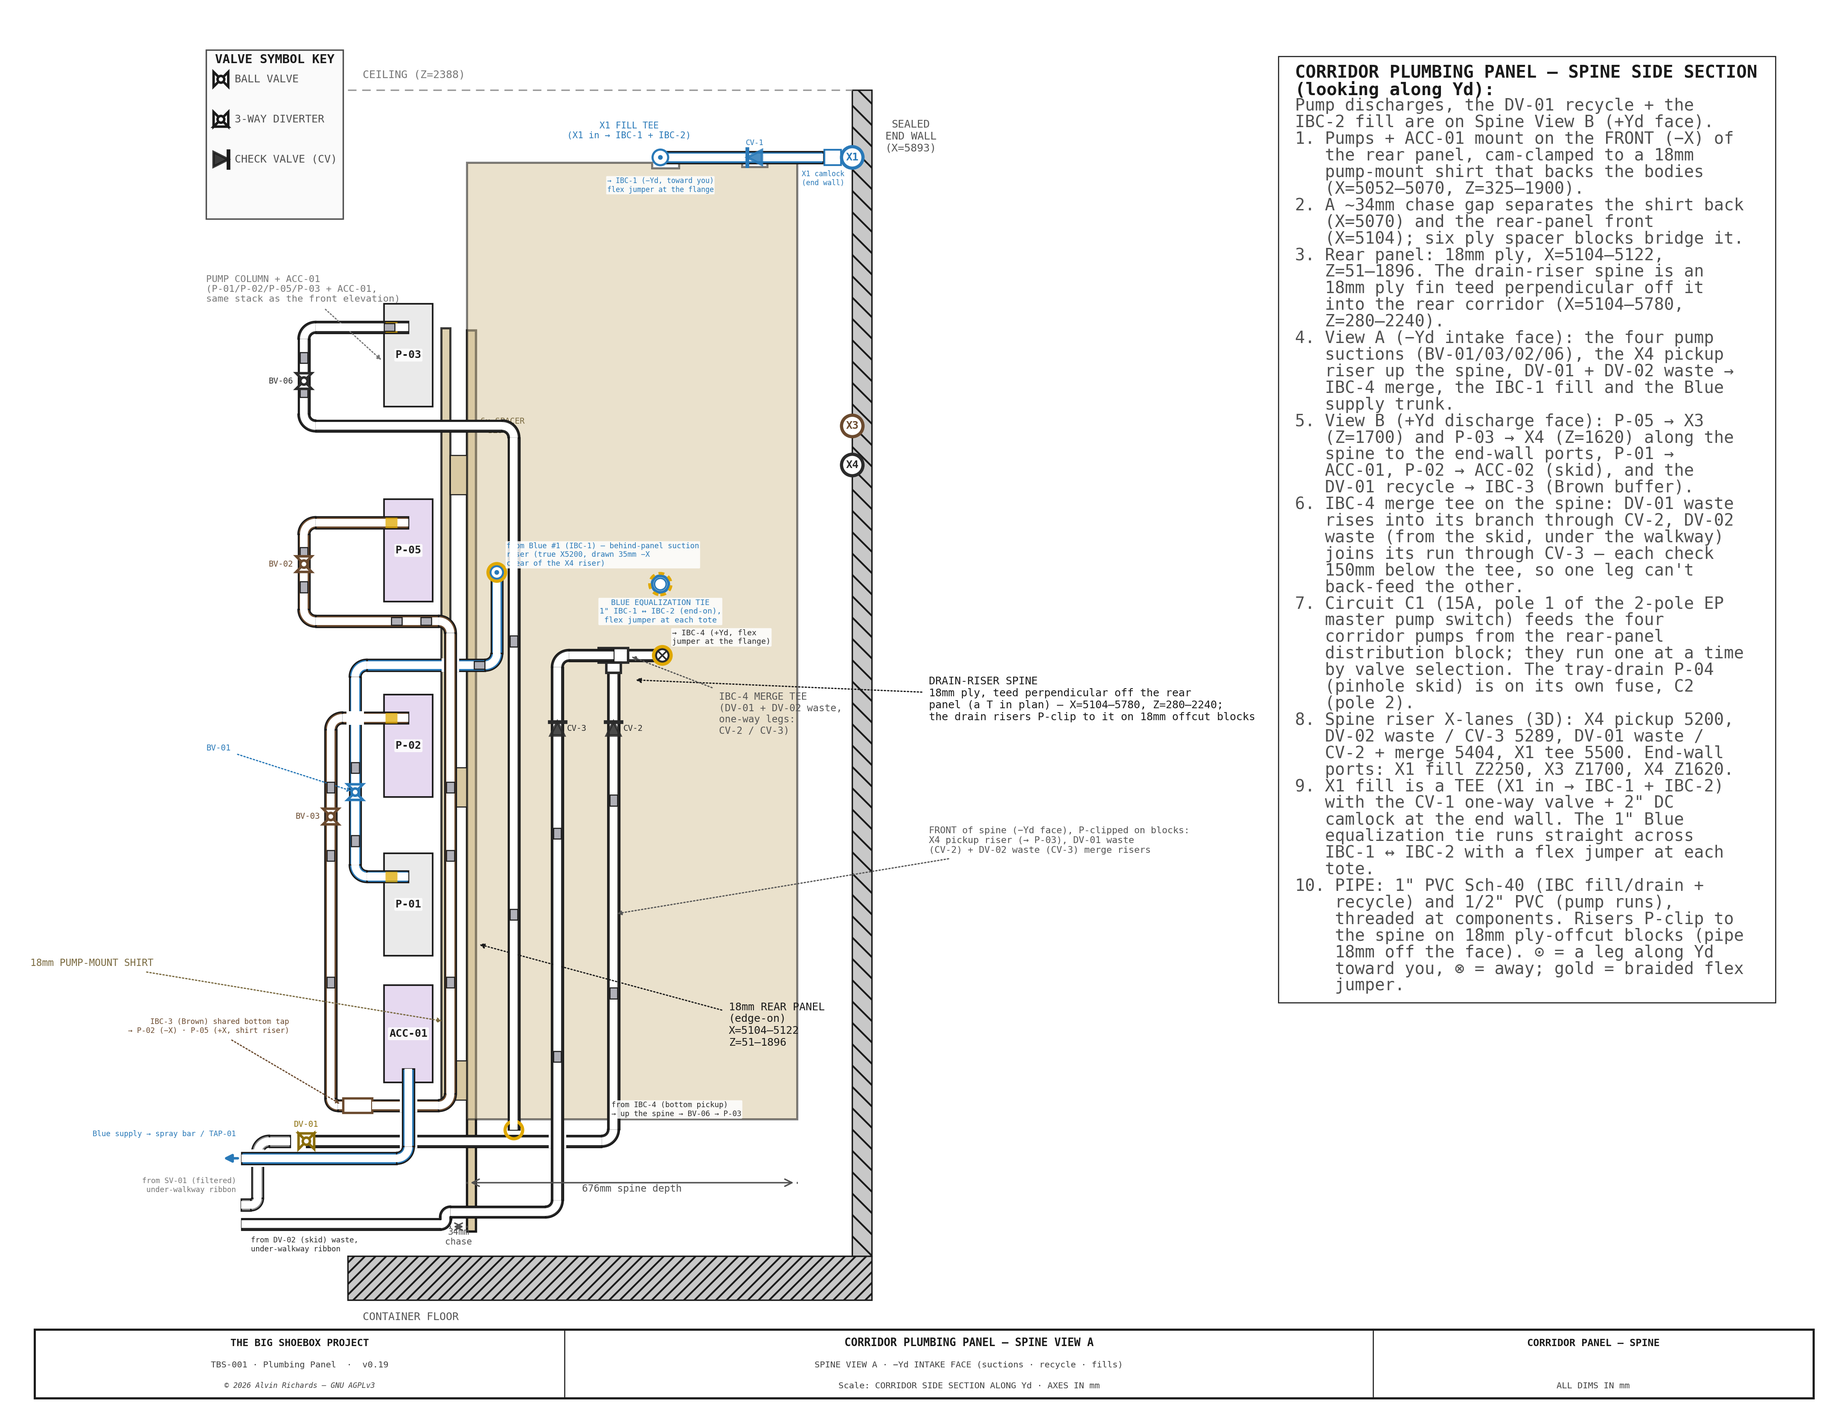
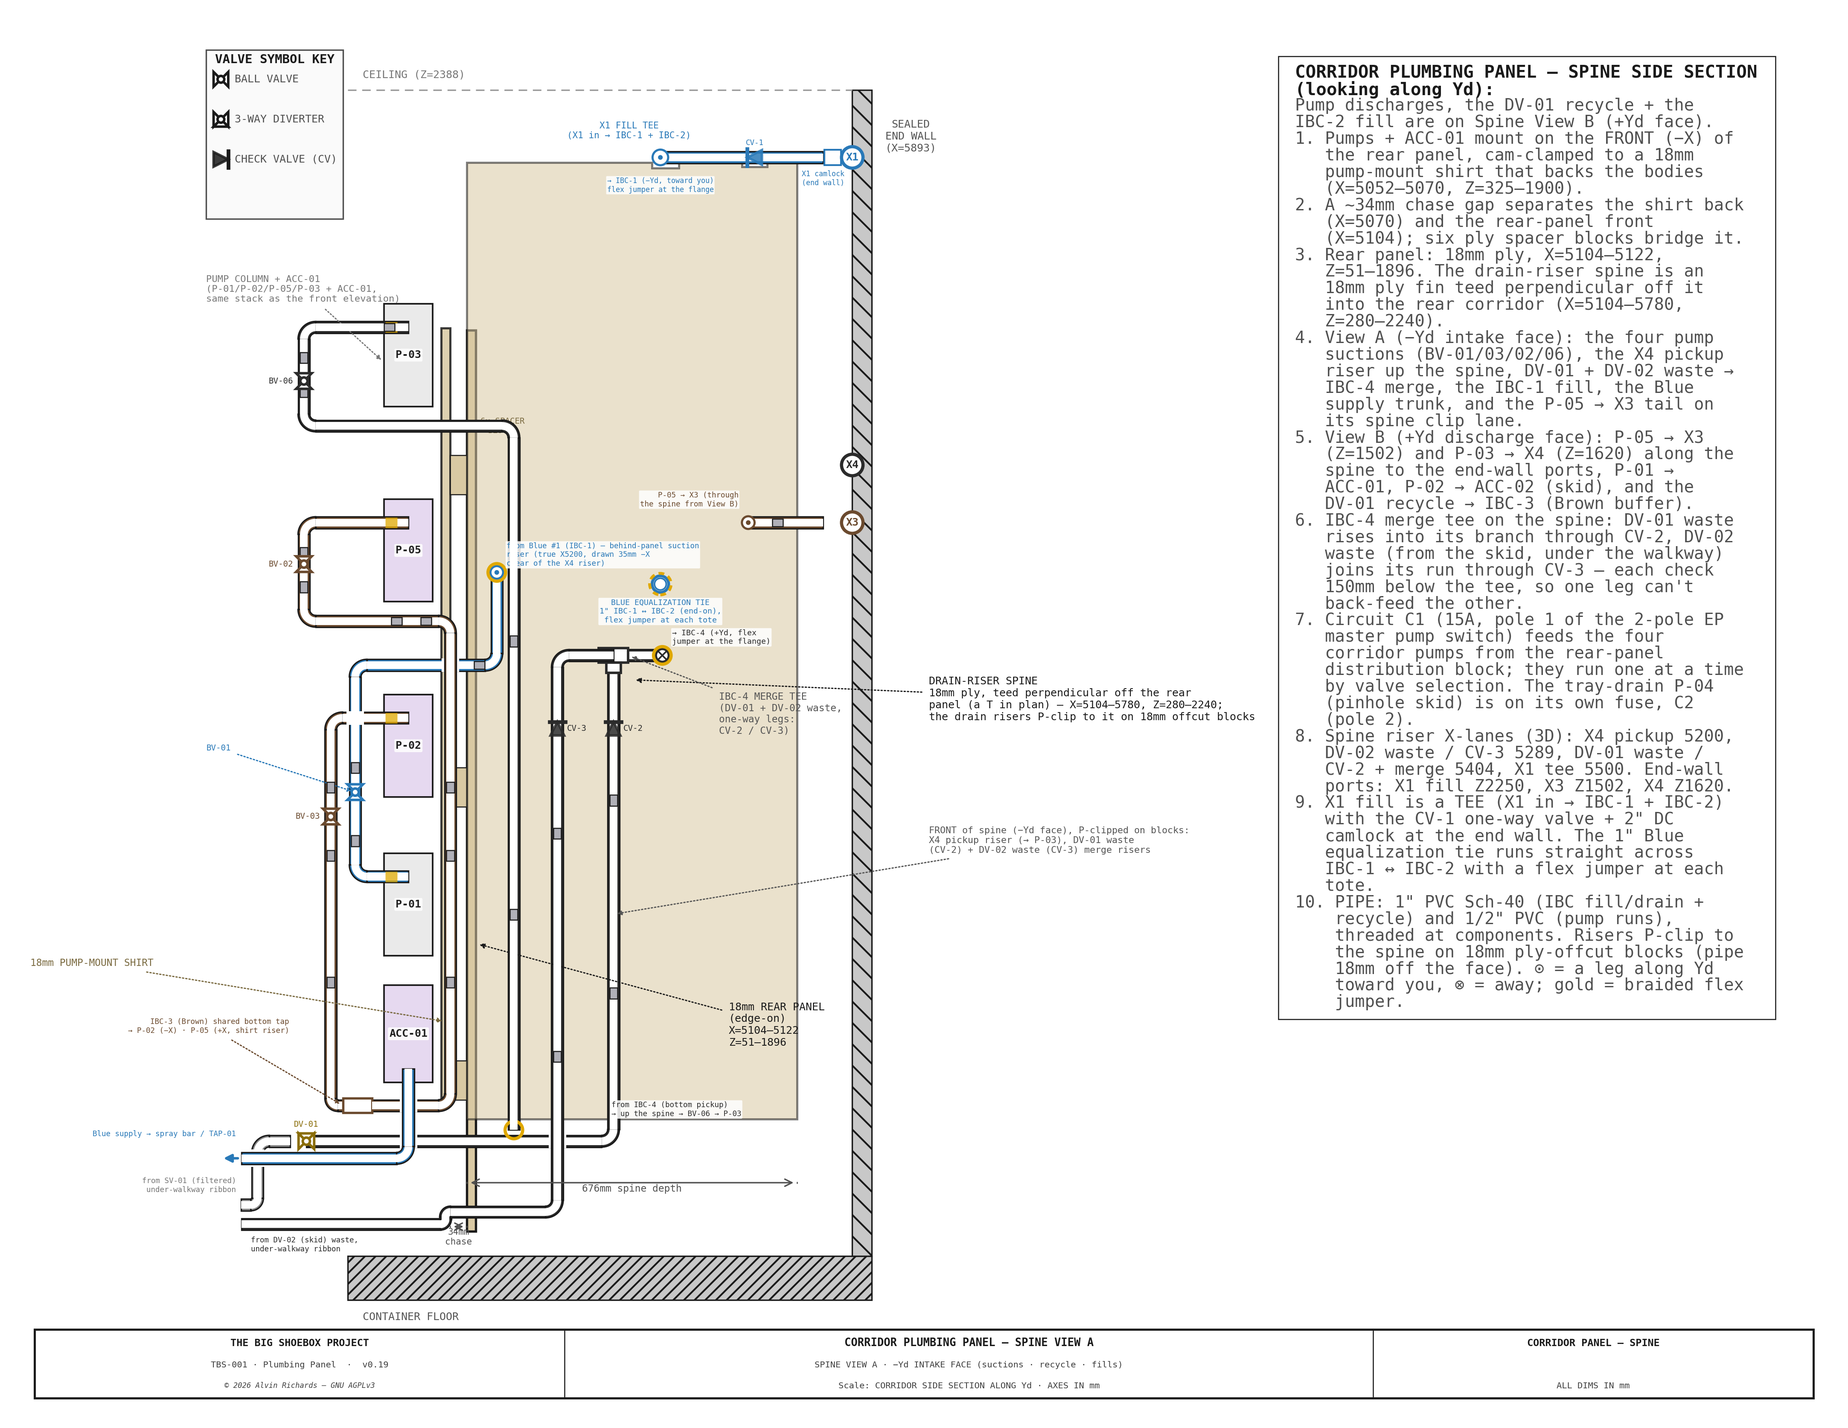
X3 relocated onto the spine near-face clip lane (Yd1177.5/Z1502) so P-05 → X3 is clamped; spine views redrawn

Changed region(s): [[0.7169, 0.2486, 0.9351, 0.7147], [0.3429, 0.3418, 0.4676, 0.3729], [0.4364, 0.2797, 0.4676, 0.3107]]

diff --git a/src/models/generate_corridor_water_panel.py b/src/models/generate_corridor_water_panel.py
@@ -350,6 +350,7 @@ SPINE_Z0    = 280    # drain-riser spine bottom Z (clears the low waste pickup z
 X1_TEE_X, X1_TEE_Z = 5500, 2250                     # X1 fill tee — ON the spine top, centered in its thickness (X1_TEE_Y below)
 SPINE_Z1    = X1_TEE_Z - ov.PUMP_PIPE_OD / 2       # 2239.5 — drain-riser spine top: the X1 fill run + tee REST on its top edge
 SPINE_X_END = 5780   # drain-riser spine far X — extended ~220mm toward the sealed end wall (X5893) so the two end-wall port runs (P-05→X3, P-03→X4) + their X5763 drops get a ply clip surface; still clears the wall
+X3_CROSS_X = SPINE_X_END - 100   # P-05→X3 crosses the spine here (100mm in from its X-edge), then runs the near-face clip lane to X3
 
 
 
@@ -412,6 +413,8 @@ def rear_panel():
         for frac in (0.30, 0.70):
             cz = max(300, min(int(zb + (zt - zb) * frac), int(SPINE_Z1 - 20)))
             p.append(clip_on_block("Spine riser P-clip", rx, cz, SPINE_FACE_NEAR, SPINE_RISER_YD, True))
+    p.append(clip_on_block("Spine near-side P-clip", (X3_CROSS_X + SPINE_X_END) / 2 + 10,
+                           _piz("P-05"), SPINE_FACE_NEAR, SPINE_RISER_YD, False))
     # FAR (+Yd) side of the spine — the grey/brown X-port lines run along it toward the end wall:
     # P-05→X3 (brown, Z1502) and P-03→X4 (waste, Z1902), both on the COL_R lane. Clamps to the +Yd face.
     spine_far_face = SPINE_FACE_NEAR + EQT
@@ -832,7 +835,7 @@ REAR_HOLES = [(DV01_WASTE_YD, 235, RPH),      # DV-01 -> IBC-4 merge
               (CTR_Y, 1430, CBH)]    # Cct-C branch -> P-05
 SPINE_HOLES = [(5500, 1376, 16 + 3),                 # Blue equalization (IBC-1 <-> IBC-2, 1" r16)  (X, Z) — cut along Y
                (ov.IBC_COL_X + 830, MERGE4[2], RPH),  # IBC-4 (Waste) tote entry (xe4) off the merge tee
-               (SPINE_X_END - 100, _piz("P-05"), RPH)]   # P-05 → X3 brown crossing — 100mm in from the extended edge
+               (X3_CROSS_X, _piz("P-05"), RPH)]   # P-05 → X3 brown crossing
 
 
 def support_boards(sides=("far", "near", "near-upper")):
@@ -1194,16 +1197,15 @@ def drains_ports(sump_on_skid=False):
          draw.C_IBC_BROWN)
     port_jumper(p, "P-05 suction jumper", [p5i, (PXC, BV02_YD, z05), (rx, BV02_YD, z05), (rx, BV02_YD, zloop)])
     p.append(ball_valve("BV-02 (P-05 suction)", rx, BV02_YD, z05 - 85, "z", hdir="+y", rot_deg=45))   # whole valve rotated 45° so the handle swings into the corridor on the −X+Yd diagonal, matching BV-01/BV-03/BV-06
-    p.append(draw.ruby_cylinder("X3 Brown drain port (end wall)", ew - 60, COL_L, 1700, 22, 60, color=draw.C_STEEL, axis="x"))
+    p.append(draw.ruby_cylinder("X3 Brown drain port (end wall)", ew - 60, SPINE_RISER_YD, p5o[2], 22, 60, color=draw.C_STEEL, axis="x"))
     # P-05 OUT → +Yd stub → step onto a clear back lane (between the spine +Yd face 1224 and the far
     # upright 1266; +Yd of the pump body 1231) — the −Yd step is done in the OPEN −X of the shirt, NOT in
     # the chase — then STRAIGHT +X through the shirt + panel (round holes) and behind the panel all the way
-    # to the end wall (extending the straight run), then −Yd onto the X3 port lane past the spine, and down.
+    # toward the end wall, then −Yd through the spine onto its near-face clip lane and +X to X3.
     x3lane = COL_R
-    x3cross = SPINE_X_END - 100   # 5680 — cross the spine 100mm IN from its new far edge (X5780), not at the weak X-edge
     _p05 = [p5o, (PXC, PORT_TURN_YD_OUT, p5o[2]), (5030, PORT_TURN_YD_OUT, p5o[2]), (5030, x3lane, p5o[2]),
-            (x3cross, x3lane, p5o[2]), (x3cross, COL_L, p5o[2]),     # +X along the lane to x3cross, then −Yd ACROSS the spine (100mm in)
-            (x3cross, COL_L, 1700), (ew - 60, COL_L, 1700)]          # drop, then +X to the X3 end-wall port
+            (X3_CROSS_X, x3lane, p5o[2]), (X3_CROSS_X, SPINE_RISER_YD, p5o[2]),
+            (ew - 60, SPINE_RISER_YD, p5o[2])]
     pipe("P-05 -> X3 end-wall port", _p05, draw.C_IBC_BROWN)   # OUT turns one elbow out of the port
     port_jumper(p, "P-05 discharge jumper", _p05)
 

diff --git a/src/generators/generate_panel_layout.py b/src/generators/generate_panel_layout.py
@@ -1353,6 +1353,11 @@ def spine_view(side):
         # X4 waste pickup: IBC-4 bottom → up the spine → −X wrap → up past BV-06 → P-03 IN
         run3d("X4 Waste (P-03) pickup", C_WASTEB, zorder=14)
         note(cwp.SPINE_X_END - 380, 300, "from IBC-4 (bottom pickup)\n→ up the spine → BV-06 → P-03", C_WASTEB)
+        # P-05 → X3 tail: through the spine (end-on, toward you) → +X on the −Yd clip lane to X3
+        x3z = W["runs"]["P-05 -> X3 end-wall port"][-1][2]
+        run3d("P-05 -> X3 end-wall port", C_BROWNB, zorder=12, xmin=cwp.X3_CROSS_X)
+        endon(cwp.X3_CROSS_X, x3z, C_BROWNB, toward=True)
+        note(cwp.X3_CROSS_X - 20, x3z + 30, "P-05 → X3 (through\nthe spine from View B)", C_BROWNB, ha="right", va="bottom")
         # ACC-01 OUT → Blue supply trunk → −X to the ribbon slot → spray bar / TAP-01
         run3d("Blue supply trunk -> spray bar / TAP-01 (off-panel)", C_BLUEB, zorder=16, xmin=GAPX + 1)
         _flowhead(GAPX + 1, 200, "left", C_BLUEB)
@@ -1389,7 +1394,7 @@ def spine_view(side):
         endon(rx, rz, C_BROWNB, toward=False)
         leader(axb, rx, rz, 5330, 960, "DV-01 RECYCLE → IBC-3 (Brown buffer)\n−Yd into the tote, flex jumper at the flange",
                color=C_BROWNB, fs=4.6, ha=_ha("left"), va="center", arrow_style="-|>", font=FB)
-        leader(axb, 5640, 1700, 6120, 1820,
+        leader(axb, 5600, W["runs"]["P-05 -> X3 end-wall port"][-1][2], 6120, 1820,
                "+Yd DISCHARGE face (near):\nX3 / X4 pump discharges → end-wall ports",
                color=C_BROWNB, fs=5.2, ha=_ha("left"), va="center", arrow_style="-|>", font=FB)
 
@@ -1423,7 +1428,7 @@ def spine_view(side):
         f"1. Pumps + ACC-01 mount on the FRONT (−X) of the rear panel, cam-clamped to a {SHIRTX1 - SHIRTX0:.0f}mm pump-mount shirt that backs the bodies (X={SHIRTX0:.0f}–{SHIRTX1:.0f}, Z={SHIRT_ZB:.0f}–{SHIRT_ZT:.0f}).",
         f"2. A ~{PANX - SHIRTX1:.0f}mm chase gap separates the shirt back (X={SHIRTX1:.0f}) and the rear-panel front (X={PANX:.0f}); six ply spacer blocks bridge it.",
         f"3. Rear panel: 18mm ply, X={PANX:.0f}–{PANX1:.0f}, Z={PAN_ZB:.0f}–{PAN_ZT:.0f}. The drain-riser spine is an 18mm ply fin teed perpendicular off it into the rear corridor (X={PANX:.0f}–{SPX1:.0f}, Z={SPINE_ZB:.0f}–{SPINE_ZT:.0f}).",
-        "4. View A (−Yd intake face): the four pump suctions (BV-01/03/02/06), the X4 pickup riser up the spine, DV-01 + DV-02 waste → IBC-4 merge, the IBC-1 fill and the Blue supply trunk.",
+        "4. View A (−Yd intake face): the four pump suctions (BV-01/03/02/06), the X4 pickup riser up the spine, DV-01 + DV-02 waste → IBC-4 merge, the IBC-1 fill, the Blue supply trunk, and the P-05 → X3 tail on its spine clip lane.",
         f"5. View B (+Yd discharge face): P-05 → X3 (Z={X3_PORT_Z:.0f}) and P-03 → X4 (Z={X4_PORT_Z:.0f}) along the spine to the end-wall ports, P-01 → ACC-01, P-02 → ACC-02 (skid), and the DV-01 recycle → IBC-3 (Brown buffer).",
         f"6. IBC-4 merge tee on the spine: DV-01 waste rises into its branch through CV-2, DV-02 waste (from the skid, under the walkway) joins its run through CV-3 — each check {cv_dz:.0f}mm below the tee, so one leg can't back-feed the other.",
         "7. Circuit C1 (15A, pole 1 of the 2-pole EP master pump switch) feeds the four corridor pumps from the rear-panel distribution block; they run one at a time by valve selection. The tray-drain P-04 (pinhole skid) is on its own fuse, C2 (pole 2).",

diff --git a/RELEASE.md b/RELEASE.md
@@ -26,7 +26,7 @@ is no separate publish step to run afterward.
 
 ## [Unreleased]
 
-- **2D water sheets brought back to the 3D.** ibc-stacking Sheet 5 drew the retired routing (filter return into IBC-2); it now shows DV-01 recycle → IBC-3 on a pH pass and the waste merge into IBC-4 through CV-2/CV-3, with the legend and notes rewritten. Sheet 4 no longer lists P-04 as a corridor pump. water-system Sheet 1 labels the 1" equalization tie and shows its flex jumpers. On the pinhole-wall elevation, P-04's ports are drawn to the datasheet reach and its suction enters at port height. The SV-02 marker now sits on its pipe: `PWP_SV02_Z` was the valve's base while both sheets read it as the center, so it is now the true center and the 3D derives the base from it (same geometry). The bridge-arc crossing is replaced by the skill's flush break. Labels are at the 4.0 legibility floor and moved off the pipes they named. The 3D F1 label read "50um"; it is a 5-micron cartridge. Walkway E-E listed IBC-3 → P-02 three times because its capture saw runs the builder constructs and then drops; it now keeps only runs that reach the model. Its tags no longer hide under the pipes. The four panel sheets (corridor front elevation, spine views A/B, pinhole panel) now take their routes, valve centers, clips and flex jumpers from an in-process build of water.skp, so they can't drift from the model. The spine views drop the retired DV-01 Blue-recycle riser, show X1 as a tee, and add CV-2/CV-3. The pinhole panel draws the extended board's low runs, clips and corner notches. Electrical Sheet 4's pump boxes use the datasheet envelope. Two 3D fixes came out of the 2D pass: the X4 waste pickup had a diagonal leg (an 18.5mm Yd jog spread across a 1.4m rise), now squared onto the spine lane; and the ACC-02 → BV-05 hop over the P-04 suction riser is derived from the riser's X (the port change had moved the riser into it). The spine's far (+Yd) face is now an accepted standoff exception (`SPINE_FAR_FLUSH_OK`), no longer pending review: its nine clips (P-05 → X3, P-03 → X4 and the X4 drop) sit on 6.5mm shims because the lane is fixed by the pump-port turn; the plumbing report says so. `check_pipe_supports` now also fails any non-axis-aligned pipe leg (the spray-bar feed hoses and one battery cable are ratcheted as legitimate diagonals). Review fixes: ACC-01 and ACC-02 draw their IN/OUT port stubs so every run lands on a port, P-01 → ACC-01 IN gets its 90° elbow, and the TAP-01 riser elbows into its spout; its isolation valve is labeled BV-04 (BV-06 is the P-03 suction valve) on the elevation and in chemistry-prep-shelves.md. Walkway E-E draws the four pumps and ACC-01 solid, so a unit's suction and discharge runs (opposite-Yd ports on one Z, collapsed by the projection) read as meeting on the unit rather than at a missing elbow.
+- **2D water sheets brought back to the 3D.** ibc-stacking Sheet 5 drew the retired routing (filter return into IBC-2); it now shows DV-01 recycle → IBC-3 on a pH pass and the waste merge into IBC-4 through CV-2/CV-3, with the legend and notes rewritten. Sheet 4 no longer lists P-04 as a corridor pump. water-system Sheet 1 labels the 1" equalization tie and shows its flex jumpers. On the pinhole-wall elevation, P-04's ports are drawn to the datasheet reach and its suction enters at port height. The SV-02 marker now sits on its pipe: `PWP_SV02_Z` was the valve's base while both sheets read it as the center, so it is now the true center and the 3D derives the base from it (same geometry). The bridge-arc crossing is replaced by the skill's flush break. Labels are at the 4.0 legibility floor and moved off the pipes they named. The 3D F1 label read "50um"; it is a 5-micron cartridge. Walkway E-E listed IBC-3 → P-02 three times because its capture saw runs the builder constructs and then drops; it now keeps only runs that reach the model. Its tags no longer hide under the pipes. The four panel sheets (corridor front elevation, spine views A/B, pinhole panel) now take their routes, valve centers, clips and flex jumpers from an in-process build of water.skp, so they can't drift from the model. The spine views drop the retired DV-01 Blue-recycle riser, show X1 as a tee, and add CV-2/CV-3. The pinhole panel draws the extended board's low runs, clips and corner notches. Electrical Sheet 4's pump boxes use the datasheet envelope. Two 3D fixes came out of the 2D pass: the X4 waste pickup had a diagonal leg (an 18.5mm Yd jog spread across a 1.4m rise), now squared onto the spine lane; and the ACC-02 → BV-05 hop over the P-04 suction riser is derived from the riser's X (the port change had moved the riser into it). The spine's far (+Yd) face is now an accepted standoff exception (`SPINE_FAR_FLUSH_OK`), no longer pending review: its nine clips (P-05 → X3, P-03 → X4 and the X4 drop) sit on 6.5mm shims because the lane is fixed by the pump-port turn; the plumbing report says so. X3 moved so its line is clamped: after crossing the spine, P-05 → X3 used to drop onto a Yd1109 lane 97mm off the spine with no support. It now turns onto the spine's near-face clip lane (an 18mm block, one new P-clip) and runs straight to the end wall, so X3 sits at Yd1177.5 / Z1502 (was Yd1109 / Z1700), with one riser and two elbows fewer (`X3_CROSS_X`). Spine View A draws the new tail. `check_pipe_supports` now also fails any non-axis-aligned pipe leg (the spray-bar feed hoses and one battery cable are ratcheted as legitimate diagonals). Review fixes: ACC-01 and ACC-02 draw their IN/OUT port stubs so every run lands on a port, P-01 → ACC-01 IN gets its 90° elbow, and the TAP-01 riser elbows into its spout; its isolation valve is labeled BV-04 (BV-06 is the P-03 suction valve) on the elevation and in chemistry-prep-shelves.md. Walkway E-E draws the four pumps and ACC-01 solid, so a unit's suction and discharge runs (opposite-Yd ports on one Z, collapsed by the projection) read as meeting on the unit rather than at a missing elbow.
 - **Schematics and plans authored in mm.** Water System Sheet 2 (equipment plan) had the container squeezed into a 12×5 canvas with unequal X/Y factors (a ~4% stretch) and labeled with the exterior size; it is now a 1:1 mm plan from the constants, which also corrects TAP-01's position, the corridor panel (now from the 3D rear panel + pump column), the spray bar (single-feed beam), the tray panel size, and adds the pinhole-wall filter skid. The not-to-scale schematics drawn in figure inches (Water Sheet 1, Electrical Sheet 1 and View C, Ventilation Sheet 1) are re-authored in sheet mm with no visual change. Water Sheet 1's filter labels now read 5µm / KDF-55 / GAC (F1 had read 50µ, F2 5µ). The *diagrams authored in mm* gate also catches ratio-form scale constants and axes whose limits are the figure size in inches; CLAUDE.md records that schematics use sheet mm.
 - **water.skp review fixes.** The drain-riser spine now carries the X1 fill: the X1 tee and its inlet run are centered on the spine's thickness and rest on its top edge (`SPINE_Z1` = X1_TEE_Z − pipe radius = Z2239.5), notched (2mm clearance) for the full X1 tee fitting (its run body, +X branch body and socket cuff) and for the in-line X1 check valve; the notch sizes come from the same `TEE_*` / `CV_*` constants the fittings are built from. The spine is a profiled prism (`spine_profile()`, also drawn on Spine Views A/B); it loses the old X1 hole and its cut-sheet blank is 680 × 1960mm. `ruby_prism` gains round holes on the Y axis. The spray-bar hose no longer leaves the open top of the BV-05b riser: an elbow at the riser top turns +Yd off the wall and the coiled hose barbs into its outlet. The Circuit C feed drop and pump bus behind the corridor panel ran straight through the X4 waste pickup where it turns through the panel at Z1700; the cable now dog-legs +Yd around it (between the pipe and the spine face), with no pipe or ply hole moved. `check_interference` missed it because its crossing pass only compared arrow-named runs and classified the `Cct C bus` as neither pipe nor solid: every `Cct …` conductor is now a pipe, and arrow-less pipe runs (bottom pickups, buses, branches) are crossing-checked too, an overlap at one of their ends counting as a tee onto the other line. The stricter check then caught a clash in electrical.skp that dated from the C1/C2 fuse split: fuse E sat directly behind the battery − 2/0 riser, so the Cct E feed ran inside it. The riser lane (`EP_RISE_X_M`) moves past fuse F to under the PV disconnect's center, whose two PV feed legs now land ±24mm either side of center (`PV_LEG_DX`, was ±18) so the riser passes between them; the Cct E feed keeps its route and lands 30mm along the inverter top, clear of the Battery + drop. In electrical.skp the PV interior MC4 stubs, pigtails, ± buses and the PV array disconnect (surface-mounted on the interior access panel) are their own component on the Power Core tag (the PV feeds no longer stop in mid-air when the External Panel tag is off), and the Power Core / External Panel scenes drop the chem shelf, the fan-load ghosts and the transport-stay plates (new Context Loads tag) plus the ceiling cable-trunk saddle clips (their `Clips` tag was never registered, so they had sat on Layer0 in every scene). `ruby_clip_run` no longer drops a cable clip onto an elbow: a clip that would land within one clip-width of a bend slides back along its leg (eight such clips in electrical.skp, e.g. the E-stop link clip 7mm under its top bend).
 - **Pipe elbows show both joint lines; pump ports drawn to the datasheet; flex jumpers on the Blue equalization tie.** Every swept elbow was built along an inscribed 8-chord arc, so its far end face sat square to the last chord, not to the next pipe. That end ring was tilted ~5.6°, half of it buried in the adjoining pipe, and the joint line vanished at most elbow exits. Elbows now sweep the circumscribed polygon (tangent at both ends), so both rings sit square; this lives in the shared drawing helper, so every model with elbows picks it up on its next re-send. The corridor and skid pumps' port stubs now match the [Shurflo 2088-554-144 spec sheet](https://assets.freshwatersystems.com/images/skvxfhchi3wsmu9p29is/2088-554-144.pdf) (1/2"-14 NPSM male, 127mm across the port tips = `PUMP_YD_SPAN`): 13.5mm stubs, was 30mm. A ½" FNPT×slip adapter leg carries each run to its turn elbow, so the side-board riser planes are unchanged. The 1" IBC-1↔IBC-2 equalization tie was the only rigid tote-to-tote run; it now lands on each tote through a 1" flex jumper like every other tote connection (barbs M+F 8→10, SS clamps 2→3 10-packs; water +$28). The skid's tray-sump suction clip moved from just off the ply edge (X2760) onto the panel (X2830).
